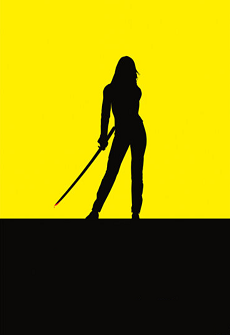
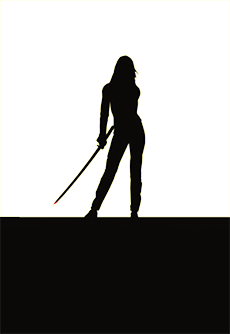
removed some text and changed background on {Register} page

diff --git a/assets/css/register.css b/assets/css/register.css
@@ -21,11 +21,11 @@
 	}
 	wrapper {
  	    position: relative;
-	    background-color: rgb(255,238,0);
+	    background-color: rgb(255,208,7);
 		display: block;
 		margin-top: 10vh;
 		padding-top: 3.8vh;
-		padding-bottom: 12vh;
+		padding-bottom: 8vh;
 		overflow: overlay; 
 	}
 	.grid{
@@ -65,7 +65,6 @@
 	    float:right;
 	    width: 67.5%;
 	    margin-right: 8%;
-	    background-color: rgb(255,238,0);
 	    padding-top: 1vh;
 	    padding-bottom: 1vh;
 	}
@@ -75,11 +74,11 @@
 	    -webkit-box-shadow: 0 0 0px 1000px white inset;
 	}
 	input {
-		border: 1px outset #f56c57;
+		border: none;
 		margin-top: 1vh;
 	}
 	input:nth-of-type(2) {
-		border: 1px inset #f56c57;
+		border: none;
 	}
 	input[type="submit"] {
 		color: white;
@@ -146,7 +145,7 @@
 	#info-text {
 		display: inline-flex;
 	}
-	info, cookieInfo {
+	info{
 		position: absolute;
 		display: none;
 
@@ -154,12 +153,11 @@
 		/*border: 1px solid red;*/
 		/* ------------  */
 	}
+	
 	info{
 		font-size: 0.95em;
 	}
-	cookieInfo{
-		font-size: 0.9em;
-	}
+	
 	info:nth-of-type(1){
 	    top: 54px;
    		left: 48%;
@@ -168,14 +166,7 @@
 		top: 81px;
    		left: 48%;
 	}	
-	cookieInfo:nth-of-type(1){
-	    top: 167px;
-		left: 48%;
-	}
-	cookieInfo:nth-of-type(2){
-		top: 187px;
-    	left: 48%;
-	}	
+	
 	.right-info {
 		/* ------------  */
 		/*border: 1px solid red;*/
@@ -184,7 +175,7 @@
 		margin-right: 5%;
 		float: right;
 		clear: both;
-		display: inline-block;
+		display: inline-block;	
 	}
 	.right-info:hover {
 		color: red;
@@ -199,7 +190,7 @@
 		top: 25vh;
 		left: 2.5%;
 		line-height: 16px;
-		font-size: .75em;
+		font-size: .65em;
 
 	}
 	
@@ -254,9 +245,6 @@
 	info{
 		font-size: 0.8em;
 	}
-	cookieInfo{
-		font-size: 0.75em;
-	}
 }
 
 
@@ -270,7 +258,6 @@ and (orientation : portrait){
    .container-right{
    		border-top: 1px solid rgba(66, 134, 244, 0.5);
    	} 
-
 } 
 
 
@@ -289,17 +276,8 @@ and (-webkit-device-pixel-ratio: 3){
 		top: 43.5vh;
    		left: 10%;
 	}
-	cookieInfo:nth-of-type(1){
-	    top: 13.5vh;
-		left: 57%;
-	}
-	cookieInfo:nth-of-type(2){
-	    top: 15.5vh;
-    	left: 45%;
-	}
-	cookieInfo{
-		font-size: 0.7em;
-	}}
+	
+}
 
 
 /*/ iPhone 5 and 6  and GALAXY S3 ---------- /*/
@@ -340,18 +318,7 @@ and (-webkit-device-pixel-ratio: 2){
 		top: 23em;
    		left: 10%;
 	}	
-	cookieInfo{
-		font-size: 0.7em;
-	}
-	cookieInfo:nth-of-type(1){
-	    top: 7.25em;
-		left: 62%;
-	}
-	
-	cookieInfo:nth-of-type(2){
-	    top: 8.5em;
-    	left: 51%;
-	}}
+}
 
 @media only screen 
 and (min-device-width: 320px) 
@@ -390,14 +357,7 @@ and (orientation : landscape){
         top: 71vh;
   	    left: 10.5%;
 	}
-	cookieInfo:nth-of-type(1) {
-	    top: 67vh;
-	    left: 73.5%;
-	}
-	cookieInfo:nth-of-type(2) {
-	    top: 71vh;
-	    left: 67%;
-	}}
+}
 
 
 /*/ iPhone 6+  ----------- /*/
@@ -439,14 +399,7 @@ and (orientation : portrait)
         top: 39vh;
   	    left: 12%;
 	}
-	cookieInfo:nth-of-type(1) {
-    	top: 11vh;
-	    left: 60%;
-	}
-	cookieInfo:nth-of-type(2) {
-	    top: 13vh;
-    	left: 49%;
-	}
+	
 }
 
 
@@ -489,15 +442,64 @@ and (-webkit-device-pixel-ratio: 3){
         top: 42.5vh;
   	    left: 10%;
 	}
-	cookieInfo:nth-of-type(1) {
-    	top: 7.5em;
-	    left: 60%;
+	
+}
+
+/*//Microsoft Lumia 950 size*/
+@media only screen 
+and (min-device-width: 360px) 
+and (max-device-height: 640px) 
+{
+	.container{
+		width: 80%;
 	}
-	cookieInfo:nth-of-type(2) {
-	    top: 8.75em;
-    	left: 49%;
+	.container-right{
+		margin-right: 10%;
+	}
+	.container-left{
+		display: block;
+		margin: 0 auto;
+	}
+	.gdpr-disclaimer{
+		line-height: 1.5em;
+	}
+	
+	#info-message {
+		font-size: 0.85em;
+	    width: 40%; 
+	    display: inline-block;
+	}
+	#info-logo {
+		width: 5%;
+		top: -0.7em;
+		left: -8%;
+	}
+	info:nth-of-type(1) {
+	    top: 41vh;
+	    left: 10%;
+	}
+	info:nth-of-type(2) {
+	    top: 43.75vh;
+	    left: 10%;
 	}
 }
+
+@media only screen 
+and (min-device-width: 360px) 
+and (max-device-height: 640px)
+and (orientation : landscape){
+	info:nth-of-type(1) {
+		top: 66.5vh;
+	}
+	info:nth-of-type(2) {
+		top: 71.75vh;
+	}		
+	#small-arrow {
+		top:5px;
+    	width: 6%;
+	}
+}
+
 
 /*  Samsung Galaxy S5 (portrait and landscape) ----------- /*/
 /*  There is also another fix for S5 at the start of phone styles */
@@ -519,6 +521,7 @@ and (-webkit-device-pixel-ratio: 3){
 	.gdpr-disclaimer{
 		line-height: 1.5em;
 	}
+	
 	#info-message {
 		font-size: 0.85em;
 	    width: 40%; 
@@ -603,14 +606,6 @@ and (orientation : landscape){
 	    top: 51vh;
   	    left: 10%;
 	}
-	cookieInfo:nth-of-type(1) {
-	    top: 5vh;
-	    left: 53.5%;
-	}
-	cookieInfo:nth-of-type(2) {
-	    top: 8vh;
-	    left: 49%;
-	}
 	#small-arrow {
 	    width: 25px;
 	    top: 4px;
@@ -652,12 +647,5 @@ and (orientation : portrait){
 	    top: 24em;
 	    left: 10%;
 	}
-	cookieInfo:nth-of-type(1) {
-	    top: 24em;
-	    left: 70%;
-	}
-	cookieInfo:nth-of-type(2) {
-	    top: 25.5em;
-	    left: 63%;
-	}
+	
 }

diff --git a/pages/register.html b/pages/register.html
@@ -43,7 +43,6 @@
 	       	  <input type = "radio" name = "gdpr" id = "gdpr-radio" value = "false"> 
 	       	  <img id='small-arrow' src="../assets/images/register/small_arrow.png"  alt="small_arrow"
 			  </br>
-			  <P class='gdpr-disclaimer'>You can <a id='opt-out'>opt-out</a> at any time.</P>
 		  </div>
 
 		  <!-- PICS CONTAINER -->
@@ -57,8 +56,7 @@
 		    <div id = 'info-text'>
 		    	<info>Registered producers can</info>
 		    	<info>add, edit and delete movies.</info>
-		    	<cookieInfo>Cookies identify user</cookieInfo>
-		    	<cookieInfo>and colect no data otherwise.</cookieInfo>
+		    	
 
 		    </div>
 

diff --git a/views/register.js b/views/register.js
@@ -49,10 +49,8 @@ function domLoaded() {
 		moveArrow();
 	})
 	$('#gdpr-link').click(function(){
-		$('cookieInfo').css('display','inline-block');
-	})
-	$('#opt-out').click(function(){
-		location.reload();
+		// $('.cookieInfo').css('visibility','visible');
+		// location.reload();
 	})
 	
 	// Moves small arrow @gdpr to alert user
